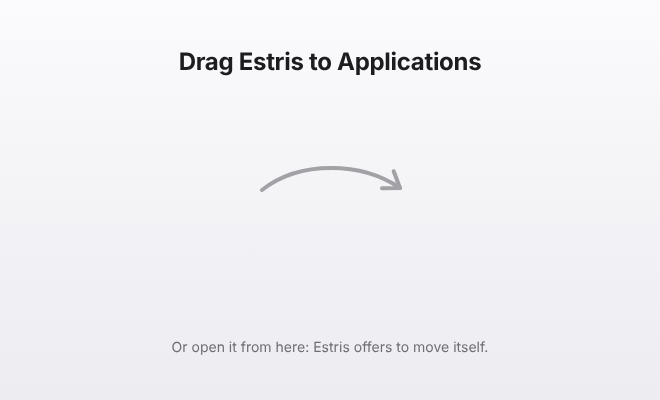
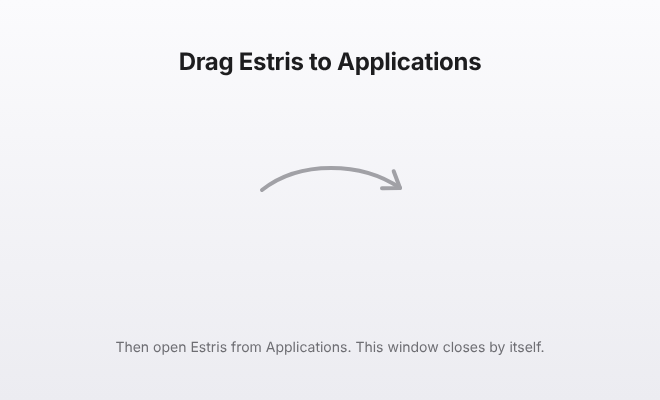
Disk image: says the window closes by itself, and Estris ejects it once installed
Claude-Session: https://claude.ai/code/session_019uy9u4yLv5Nb4xiJeuKbch

Changed region(s): [[0.1818, 0.84, 0.8182, 0.9]]

diff --git a/Sources/Estris/App/ApplicationsMover.swift b/Sources/Estris/App/ApplicationsMover.swift
@@ -2,7 +2,8 @@ import AppKit
 
 /// Opened from the disk image or Downloads, Estris offers to move itself to Applications,
 /// where it stays installed and can open at login. It then opens again from there and ejects
-/// the disk image, closing its window.
+/// the disk image, closing its window. Dragged there instead, it ejects the disk image when
+/// first opened from Applications.
 @MainActor
 enum ApplicationsMover {
     private static let destination = URL(fileURLWithPath: "/Applications/Estris.app")
@@ -43,6 +44,23 @@ enum ApplicationsMover {
         }
         relaunchFromApplications()
         return true
+    }
+
+    /// Once installed, ejects Estris's disk image if it's still mounted (dragging to
+    /// Applications leaves it open, with its icon on the desktop): a read-only volume holding
+    /// an Estris.app with the same bundle identifier.
+    static func ejectInstallerDiskImage() {
+        guard !isOutsideApplications else { return }
+        let keys: [URLResourceKey] = [.volumeIsReadOnlyKey]
+        let volumes = FileManager.default.mountedVolumeURLs(includingResourceValuesForKeys: keys, options: [.skipHiddenVolumes]) ?? []
+        for volume in volumes where volume.path.hasPrefix("/Volumes/") {
+            guard (try? volume.resourceValues(forKeys: Set(keys)))?.volumeIsReadOnly == true,
+                  Bundle(url: volume.appendingPathComponent("Estris.app"))?.bundleIdentifier == Bundle.main.bundleIdentifier
+            else { continue }
+            DispatchQueue.global(qos: .utility).async {
+                try? NSWorkspace.shared.unmountAndEjectDevice(at: volume)
+            }
+        }
     }
 
     private static func move() throws {

diff --git a/Sources/Estris/App/AppDelegate.swift b/Sources/Estris/App/AppDelegate.swift
@@ -36,6 +36,7 @@ final class AppDelegate: NSObject, NSApplicationDelegate {
     func applicationDidFinishLaunching(_ notification: Notification) {
         // Opened from the disk image: moving to Applications opens it again from there.
         if ApplicationsMover.offerIfNeeded() { return }
+        ApplicationsMover.ejectInstallerDiskImage()
         permissionLog.start()
         clipboard.start()
         autoQuit.start()

diff --git a/PROJECT.md b/PROJECT.md
@@ -298,7 +298,7 @@ To add a utility: create `Utilities/<Name>/` with a class like `ClipboardManager
 
 ## Installing
 
-Opened from the disk image or Downloads (the real location, through App Translocation's original path), Estris first asks **Move Estris to Applications?** (`App/ApplicationsMover.swift`). **Move to Applications** copies it there (an older copy goes to the Trash), clears the download quarantine, quits, opens the moved copy and ejects the disk image, which closes its window; if the copy fails, an alert says to drag it there instead. **Not Now** carries on from where it is, without adding it to the login items until it runs from elsewhere.
+Opened from the disk image or Downloads (the real location, through App Translocation's original path), Estris first asks **Move Estris to Applications?** (`App/ApplicationsMover.swift`). **Move to Applications** copies it there (an older copy goes to the Trash), clears the download quarantine, quits, opens the moved copy and ejects the disk image, which closes its window; if the copy fails, an alert says to drag it there instead. **Not Now** carries on from where it is, without adding it to the login items until it runs from elsewhere. Dragged to Applications instead, the disk image stays mounted (its icon on the desktop) until Estris opens from Applications: at each launch it ejects any read-only volume holding an Estris.app with its bundle identifier.
 
 ## Updates
 
@@ -312,7 +312,7 @@ Through Sparkle (`Shared/Updates.swift`): Estris reads `appcast.xml` from the la
   2. On the newest macOS runner with the latest stable Xcode (an app built with an older SDK gets the older look on new macOS), builds for Apple silicon and Intel (`RELEASE=1 scripts/build-app.sh`), signed with the Developer ID certificate from the secrets (hardened runtime, `Resources/Estris.entitlements`), packs `Estris.dmg` with a link to Applications (`scripts/make-dmg.sh`), and notarizes and staples it.
   3. Signs `Estris.dmg` for Sparkle (`sign_update` with the `SPARKLE_PRIVATE_KEY` secret) and writes `appcast.xml` (`scripts/make-appcast.py`: the version, build number, minimum macOS, the notes as HTML and the disk image's link and signature); skipped with a warning without the key.
   4. Commits "Release X.Y.Z" to main, tags it `vX.Y.Z` and creates the GitHub release with `Estris.dmg` (which the website's Download points to) and `appcast.xml` (which installed copies check).
-  - `Estris.dmg` opens to a window with the app, a link to Applications and a background (`Resources/DMG/background.svg`, rendered to `background.png` and `@2x`) titled "Drag Estris to Applications", with an arrow between them and a line saying Estris can also be opened from there. Laid out by `dmgbuild` (`scripts/dmg-settings.py`).
+  - `Estris.dmg` opens to a window with the app, a link to Applications and a background (`Resources/DMG/background.svg`, rendered to `background.png` and `@2x`) titled "Drag Estris to Applications", with an arrow between them and the line "Then open Estris from Applications. This window closes by itself." Laid out by `dmgbuild` (`scripts/dmg-settings.py`).
   - Without the signing secrets it still releases, signed ad hoc and not notarized, with a warning; macOS then makes people allow the app by hand. Secrets: `DEVELOPER_ID_CERTIFICATE` (base64 .p12), `DEVELOPER_ID_CERTIFICATE_PASSWORD`, `APPLE_ID`, `APPLE_APP_PASSWORD`, `APPLE_TEAM_ID`.
 
 ## Notes

diff --git a/CHANGELOG.md b/CHANGELOG.md
@@ -2,6 +2,8 @@
 
 ## Unreleased
 
+- After dragging Estris to Applications, opening it ejects the disk image, so its window and desktop icon go away.
+
 ## 0.1.2 - 2026-10-11
 
 - Updates: when a new version is out, the menu bar menu shows **Update Available** with a button that installs it. **Check for Updates…** is in General.
